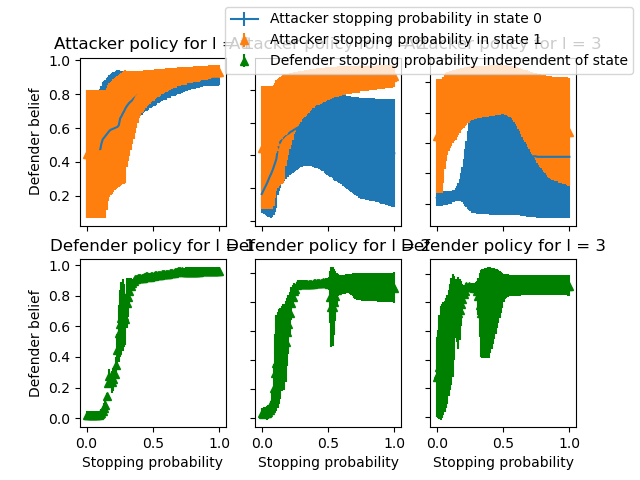
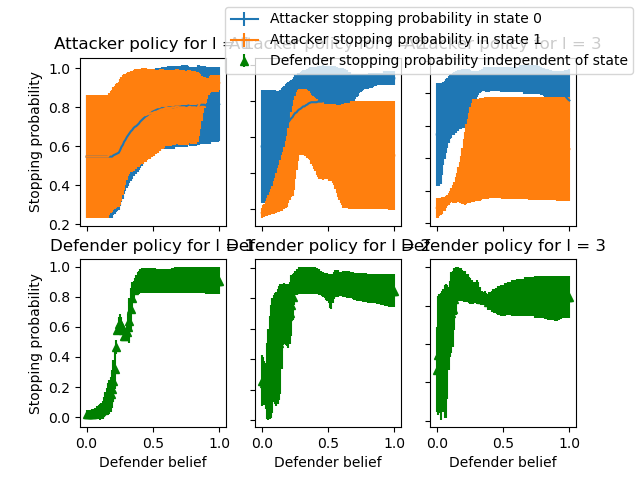
approx exploit

diff --git a/open_spiel/python/optimal_stopping_tests/pi_plotter.py b/open_spiel/python/optimal_stopping_tests/pi_plotter.py
@@ -144,16 +144,16 @@ attacker_policies = [["attacker_stopping_probabilities_intrusion_3","attacker_st
 defender_policies = ["defender_stopping_probabilities_3", "defender_stopping_probabilities_2", "defender_stopping_probabilities_1"]
 b_vec = np.linspace(0, 1, num=100)
 for policy in attacker_policies:
-    state0_probs = np.zeros((3,100))
-    state1_probs = np.zeros((3,100))
+    state0_probs = np.zeros((2,100))
+    state1_probs = np.zeros((2,100))
     
-    for i in range (1,4):
+    for i in range (1,3):
         df = pd.read_csv("Exploit_new_code"+ str(i) + "_belief.csv")
         
-        prob = df[policy[0]]
-        state0_probs[i-1] = prob
-        prob = df[policy[1]]
-        state1_probs[i-1] = prob
+        stopping_nointrusion_prob = df[policy[1]]
+        state0_probs[i-1] = stopping_nointrusion_prob
+        stopping_intrusion_prob = df[policy[0]]
+        state1_probs[i-1] = stopping_intrusion_prob
     
     state0_averages_attacker = np.average(state0_probs,0)
     state0_errors_attacker = np.std(state0_probs,0)
@@ -161,14 +161,14 @@ for policy in attacker_policies:
     state1_errors_attacker = np.std(state1_probs,0)
     
     axs[0, j].errorbar(b_vec, state0_averages_attacker, state0_errors_attacker, label = "Attacker stopping probability in state 0")
-    axs[0, j].errorbar(b_vec, state1_averages_attacker, state1_errors_attacker, linestyle='None', marker='^', label = "Attacker stopping probability in state 1")
+    axs[0, j].errorbar(b_vec, state1_averages_attacker, state1_errors_attacker, label = "Attacker stopping probability in state 1")
     j = j+1
 j = 0
 for policy in defender_policies:
-    print(policy)
-    state_probs = np.zeros((3,100))
+    #print(policy)
+    state_probs = np.zeros((2,100))
     
-    for i in range (1,4):
+    for i in range (1,3):
         df = pd.read_csv("Exploit_new_code"+ str(i) + "_belief.csv")
         
         prob = df[policy]
@@ -176,7 +176,7 @@ for policy in defender_policies:
     
     state_averages_defender = np.average(state_probs,0)
     state_errors_defender = np.std(state_probs,0)
-    print(state_averages_defender)
+    #print(state_averages_defender)
 
     axs[1, j].errorbar(b_vec, state_averages_defender, state_errors_defender, linestyle='None', marker='^', label = "Defender stopping probability independent of state", color='green')
     j = j+1
@@ -192,7 +192,7 @@ axs[1, 1].set_title('Defender policy for l = 2')
 axs[1, 2].set_title('Defender policy for l = 3')
 
 for ax in axs.flat:
-    ax.set(xlabel='Stopping probability', ylabel='Defender belief')
+    ax.set(ylabel='Stopping probability', xlabel='Defender belief')
 
 #handles, labels = ax.get_legend_handles_labels()
 #fig.legend(handles, labels, loc='upper center')

diff --git a/open_spiel/python/optimal_stopping_tests/nfsp_torch_sequential_jakob2.py b/open_spiel/python/optimal_stopping_tests/nfsp_torch_sequential_jakob2.py
@@ -195,6 +195,8 @@ def main(unused_argv):
         "epsilon_decay_duration": num_train_episodes,
         "epsilon_start": 0.06,
         "epsilon_end": 0.001,
+        "lr_decay_duration": num_train_episodes,
+        "lr_end": rl_learning_rate/10,
     }
 
     agents = [
@@ -212,6 +214,8 @@ def main(unused_argv):
                   stopping_game = True,
                   optimizer_str="adam",
                   device_str=device_str,
+                  sl_lr_decay_duration=num_train_episodes,
+                  sl_lr_end=sl_learning_rate/10,
                   **kwargs) for idx in range(num_players)
     ]
 

diff --git a/open_spiel/python/optimal_stopping_tests/nfsp_torch_sequential_jakob3.py b/open_spiel/python/optimal_stopping_tests/nfsp_torch_sequential_jakob3.py
@@ -195,6 +195,8 @@ def main(unused_argv):
         "epsilon_decay_duration": num_train_episodes,
         "epsilon_start": 0.06,
         "epsilon_end": 0.001,
+        "lr_decay_duration": num_train_episodes,
+        "lr_end": rl_learning_rate/10,
     }
 
     agents = [
@@ -212,6 +214,8 @@ def main(unused_argv):
                   stopping_game = True,
                   optimizer_str="adam",
                   device_str=device_str,
+                  sl_lr_decay_duration=num_train_episodes,
+                  sl_lr_end=sl_learning_rate/10,
                   **kwargs) for idx in range(num_players)
     ]
 

diff --git a/open_spiel/python/pytorch/nfsp.py b/open_spiel/python/pytorch/nfsp.py
@@ -215,7 +215,7 @@ class NFSP(rl_agent.AbstractAgent):
             #Update the learning rate
             for g in self.optimizer.param_groups:
                 g['lr'] = self._get_decayed_lr()
-            print("SL lr" + str(self._get_decayed_lr()))
+            #print("SL lr" + str(self._get_decayed_lr()))
 
             if self._step_counter % self._learn_every == 0:
                 self._last_sl_loss_value = self._learn()

diff --git a/open_spiel/python/pytorch/dqn.py b/open_spiel/python/pytorch/dqn.py
@@ -225,7 +225,7 @@ class DQN(rl_agent.AbstractAgent):
       #Update the learning rate
       for g in self._optimizer.param_groups:
         g['lr'] = self._get_decayed_lr()
-      print("RL lr" + str(self._get_decayed_lr()))
+      #print("RL lr" + str(self._get_decayed_lr()))
 
 
       if self._step_counter % self._learn_every == 0:
